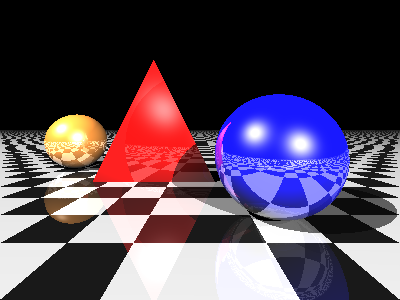
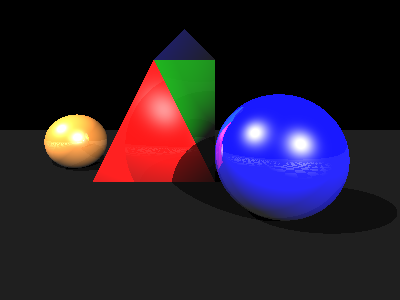
Parte 3 de Raytracing lista

diff --git a/raytracing.py b/raytracing.py
@@ -211,6 +211,18 @@ def calculate_color(light, color_light):
 color_plane0 = 1. * np.ones(3)
 color_plane1 = 0. * np.ones(3)
 
+
+def add_triangle_strip(array_v, colors):
+    #Lo del rotate es para que la normal de todos apunte hacia delante y ver los colores
+    rotate = False
+    for i in range(len(array_v) - 2):
+        if rotate:
+            scene.append(add_triangle(array_v[i], array_v[i + 2], array_v[i + 1], colors[i]))
+        else:
+            scene.append(add_triangle(array_v[i], array_v[i + 1], array_v[i + 2], colors[i]))
+        rotate = not rotate
+
+
 scene = [
         add_sphere([.75, .1, 1.], .6, [0., 0., 1.]),
         #add_sphere([-.75, .1, 2.25], .6, [.5, .223, .5]),
@@ -218,6 +230,8 @@ scene = [
         add_plane([0., -.5, 0.], [0., 1., 0.]),
         add_triangle([-1.75, -.5 ,2.25], [.25, -.5 , 2.25], [-0.75, 1.5 , 2.25], [1., 0., 0.])
         ]
+
+add_triangle_strip([[-1.75, -.5, 2.25], [.25, -.5, 2.25], [-0.75, 1.5, 2.25], [.25, 1.5, 2.25], [-.25, 2, 2.25]], [[1., 0., 0.], [0., 1., 0.], [0., 0., 1.]])
 
 # Light position and color.
 L1 = np.array([5., 5., -10.])
